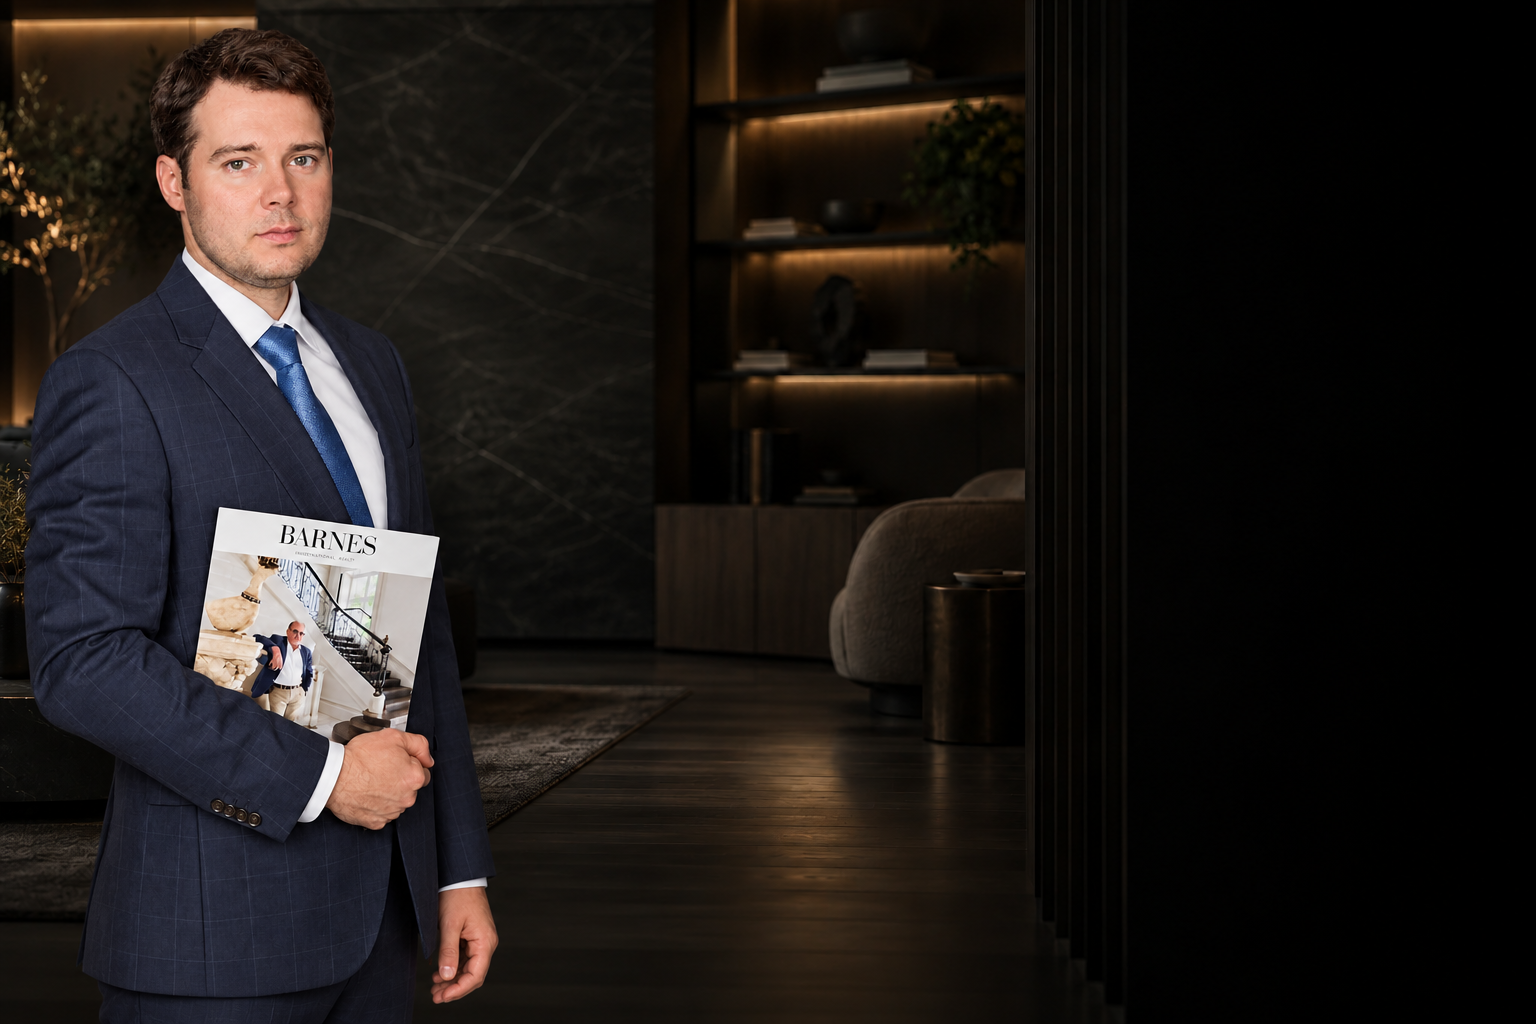
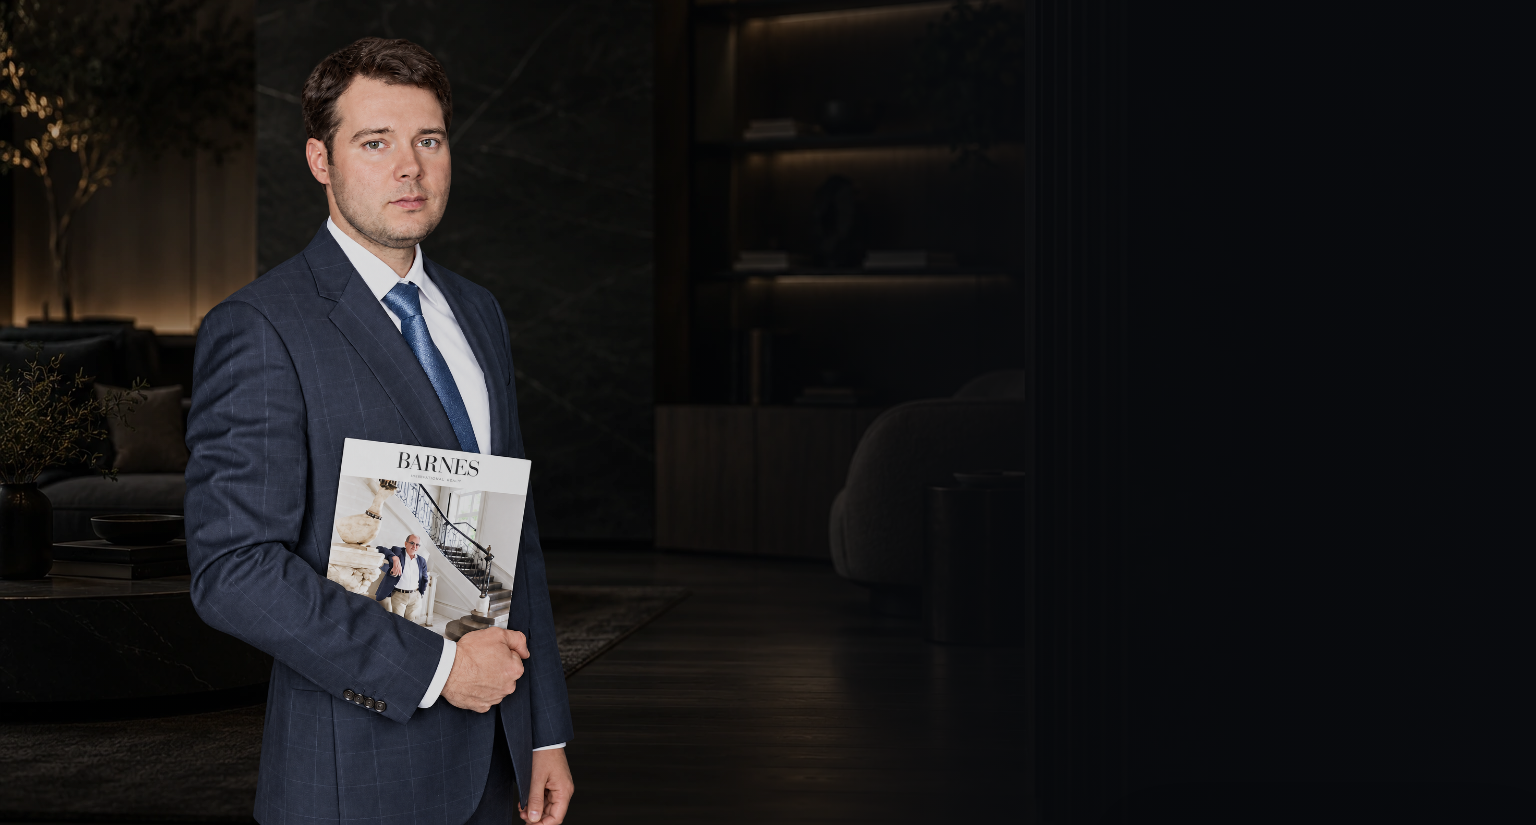
Match Denis CTA image to original resort page composition

diff --git a/portraits/denis-perkovsky/cta-left/README.md b/portraits/denis-perkovsky/cta-left/README.md
@@ -1,11 +1,19 @@
-# Денис Перковский: композиция CTA с портретом слева
+# Денис Перковский: точный фон CTA «Курортной»
 
-По поручению пользователя от 11.11.2026 соединены существующие портрет и фон из CTA зарубежной и курортной страниц. Денис расположен слева и закреплён по нижнему краю, справа оставлено пространство под текст. Это отдельный экспорт изображения; страницы сайта не менялись.
+По уточнению пользователя от 11.11.2026 сохранена исходная композиция CTA с [опубликованной Курортной](https://daniilterekh-prog.github.io/barn-estate-homepage-clone/kurortnaya/): положение и масштаб Дениса, интерьер и все слои затемнения.
 
-- [Скачать PNG](denis-cta-left.png), 1536 × 1024.
-- Фон: https://daniilterekh-prog.github.io/barn-estate-homepage-clone/mezhdunarodnaya-nedvizhimost/assets/cta-consultation-interior.webp
-- Портрет: https://daniilterekh-prog.github.io/barn-estate-homepage-clone/mezhdunarodnaya-nedvizhimost/assets/denis-perkovsky-cutout.png
-- Инструмент: встроенный imagegen, композиция двух исходных изображений.
-- [Задание на композицию](prompt.txt).
+[Скачать PNG · 1536 × 825](denis-cta-left.png).
 
[1 lines of base64/hex data omitted]
+Экспорт выполнен браузером из существующего HTML/CSS: временно скрыта только текстовая сетка с формой через `visibility:hidden`, её место в раскладке сохранено. Исходная фотография Дениса не перерисовывалась. Это экспорт изображения; файлы и публикация самой страницы не менялись. Предыдущая генеративная склейка заменена на месте; история сохранена в Git.
+
+## Воспроизведение
+
+[export.cjs](export.cjs) использует Playwright и Google Chrome. Перед запуском укажи `PLAYWRIGHT_PATH` на установленный пакет Playwright; необязательный `CHROME_PATH` задаёт браузер. Экран 1536 × 1100, deviceScaleFactor 1. Снимок берётся по целым внутренним координатам секции, чтобы убрать субпиксельные полосы за её границами. Размер исходной секции не меняется.
+
+## Проверка
+
+[verification.json](verification.json): геометрия до/после скрытия формы совпадает. Левая область шириной 691 пиксель, включающая Дениса, побайтно совпадает с исходной сценой: 0 изменённых пикселей. Проверены формат/размер PNG, композиция просмотрена.
+
+Исходные ассеты страницы:
+- [Портрет](https://daniilterekh-prog.github.io/barn-estate-homepage-clone/kurortnaya/assets/denis-perkovsky-cutout.png).
+- [Интерьер](https://daniilterekh-prog.github.io/barn-estate-homepage-clone/kurortnaya/assets/cta-consultation-interior.webp).

diff --git a/README.md b/README.md
@@ -1,6 +1,6 @@
 # BARNES Assets
 
-- [Денис Перковский: готовое изображение CTA с портретом слева · 11.11.2026](portraits/denis-perkovsky/cta-left/README.md).
+- [Денис Перковский: точный экспорт фона CTA Курортной · 11.11.2026](portraits/denis-perkovsky/cta-left/README.md).
 
 - [Собственникам СПб: 11 новых изображений для всех визуальных блоков · 10.11.2026](owner-sale-spb/editorial/README.md).
 
